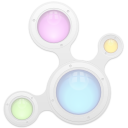
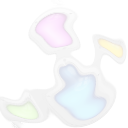
A tag cloud for the dashboard, weighting is fake, and links don't work, but it *looks* cool :)
svn path=/trunk/playground/base/plasma/applets/crystal/; revision=1079775

diff --git a/dashboard.css b/dashboard.css
@@ -11,7 +11,11 @@
         %smallfontsize  : Size of the smallest readable font
         %fontsize       : Normal size for fonts
         %path           : For the local path
- */
+
+text-shadow: 0px 1px 0px #e5e5ee;
+font-effect: none | emboss | engrave | outline | initial | inherit
+
+*/
 
 /* Tags */
 
@@ -20,26 +24,30 @@ body {
     color: %textcolor;
     font-size: %fontsize;
     background: url('%path/nepomuk.png') no-repeat bottom right;
-    background-opacity: .3;
 }
 
 h1 {
-    font-size: 23px;
+    font-size: 16px;
     font-weight: bold;
-    opacity: .4;
-    text-align: center;
+    opacity: .8;
+    text-align: left;
+    margin-top: 10px;
+    margin-left: 10px;
+    text-shadow: rgba(255,255,255,.8) 0 1px 0;
 }
 
 h2 {
-    font-size: 12px;
+    font-size: 14;
     color: %textcolor;
     opacity: .8;
+    margin-bottom: 0px;
+    text-shadow: rgba(255,255,255,.8) 0 1px 0;
 }
 
 p {
     text-align: justify;
-    opacity: .8;
-    font-size: %smallfontsize;
+    opacity: .6;
+    font-size: %fontsize;
     margin-left: 10px;
     margin-right: 10px;
 }
@@ -51,8 +59,9 @@ td {
 }
 
 ul {
-    margin-left: 10px;
-    padding-left: 10px;
+    margin-top: 8px;
+    margin-left: 4px;
+    padding-left: 12px;
     font-size: %fontsize; 
 }
 
@@ -88,7 +97,31 @@ ul li {
 
 /* links */
 
-a { color: %textcolor; }
+a { color: %textcolor; border-bottom: 1px dashed; text-decoration: none; }
 a:visited { color: %textcolor; }
 a:link { color: %textcolor .8; }
 a:hover { text-decoration: none; opacity: .4; }
+
+/* tag cloud */
+/* inspired by http://webdesign.about.com/od/csstutorials/a/aa011407.htm */
+ 
+#cloud a.tag1 { font-size: 8px; font-weight: 100; opacity: .4;}
+#cloud a.tag2 { font-size: 9px; font-weight: 200;  opacity: .4;}
+#cloud a.tag3 { font-size: 10px; font-weight: 300;  opacity: .5;}
+#cloud a.tag4 { font-size: 11px; font-weight: 400;  opacity: .5;}
+#cloud a.tag5 { font-size: 12px; font-weight: 500;  opacity: .6;}
+#cloud a.tag6 { font-size: 14px; font-weight: 600;  opacity: .6;}
+#cloud a.tag7 { font-size: 16px; font-weight: 700;  opacity: .8;}
+#cloud a.tag8 { font-size: 18px; font-weight: 800;  opacity: .8;}
+#cloud a.tag9 { font-size: 20px; font-weight: 900;  opacity: 1;}
+#cloud a.tag10 { font-size: 22px; font-weight: 900;  opacity: 1;}
+
+#cloud { padding: 2px; line-height: 2em; text-align: center; }
+#cloud a { padding: 0px; text-decoration: none; border: none;}
+#cloud a:hover { opacity: 1; background: rgba(255,255,255,0.6);}
+
+#cloud { margin: 0 15 0 0; }
+#cloud li { display: inline; }
+
+
+

diff --git a/dashboard.html b/dashboard.html
@@ -18,7 +18,7 @@
 
 <table id="links" width="80%">
     <tr>
-        <td id="recent">
+        <td id="recent" width="40%" align="top">
 
             <h2>%headerRecent</h2>
             <ul class="query">
@@ -26,10 +26,10 @@
             </ul>
 
         </td>
-        <td id="tags">
+        <td id="tags" width="60%" align="top">
 
             <h2>%headerTags</h2>
-            <ul class="query">
+            <ul id="cloud">
                 %tags
             </ul>
 

diff --git a/dashboard.cpp b/dashboard.cpp
@@ -33,6 +33,7 @@
 
 // Nepomuk
 #include <Nepomuk/Resource>
+#include <Nepomuk/Tag>
 
 //own
 #include "dashboard.h"
@@ -118,10 +119,16 @@ void DashBoard::update()
 QString DashBoard::tags()
 {
     QString _html;
-    QStringList _tags;
-    _tags << "KDE" << "Wallpaper" << "Iceland";
-    foreach (const QString &_t, _tags) {
-        _html.append(QString("<li>%1</li>\n").arg(_t));
+
+    QList<Nepomuk::Tag> allTags = Nepomuk::Tag::allTags();
+    foreach (Nepomuk::Tag t, allTags) {
+
+        int high = 10;
+        int low = 1;
+        int weight = qrand() % ((high + 1) - low) + low;
+
+        _html.append(QString("<li><a  class=\"tag%2\" href=\"nepomuksearch://?hasTag=%1\">%1</a></li>\n").arg(t.genericLabel(), QString::number(weight)));
+        kDebug() << "Tag!" << t.genericLabel() << weight;
     }
     return _html;
 }
